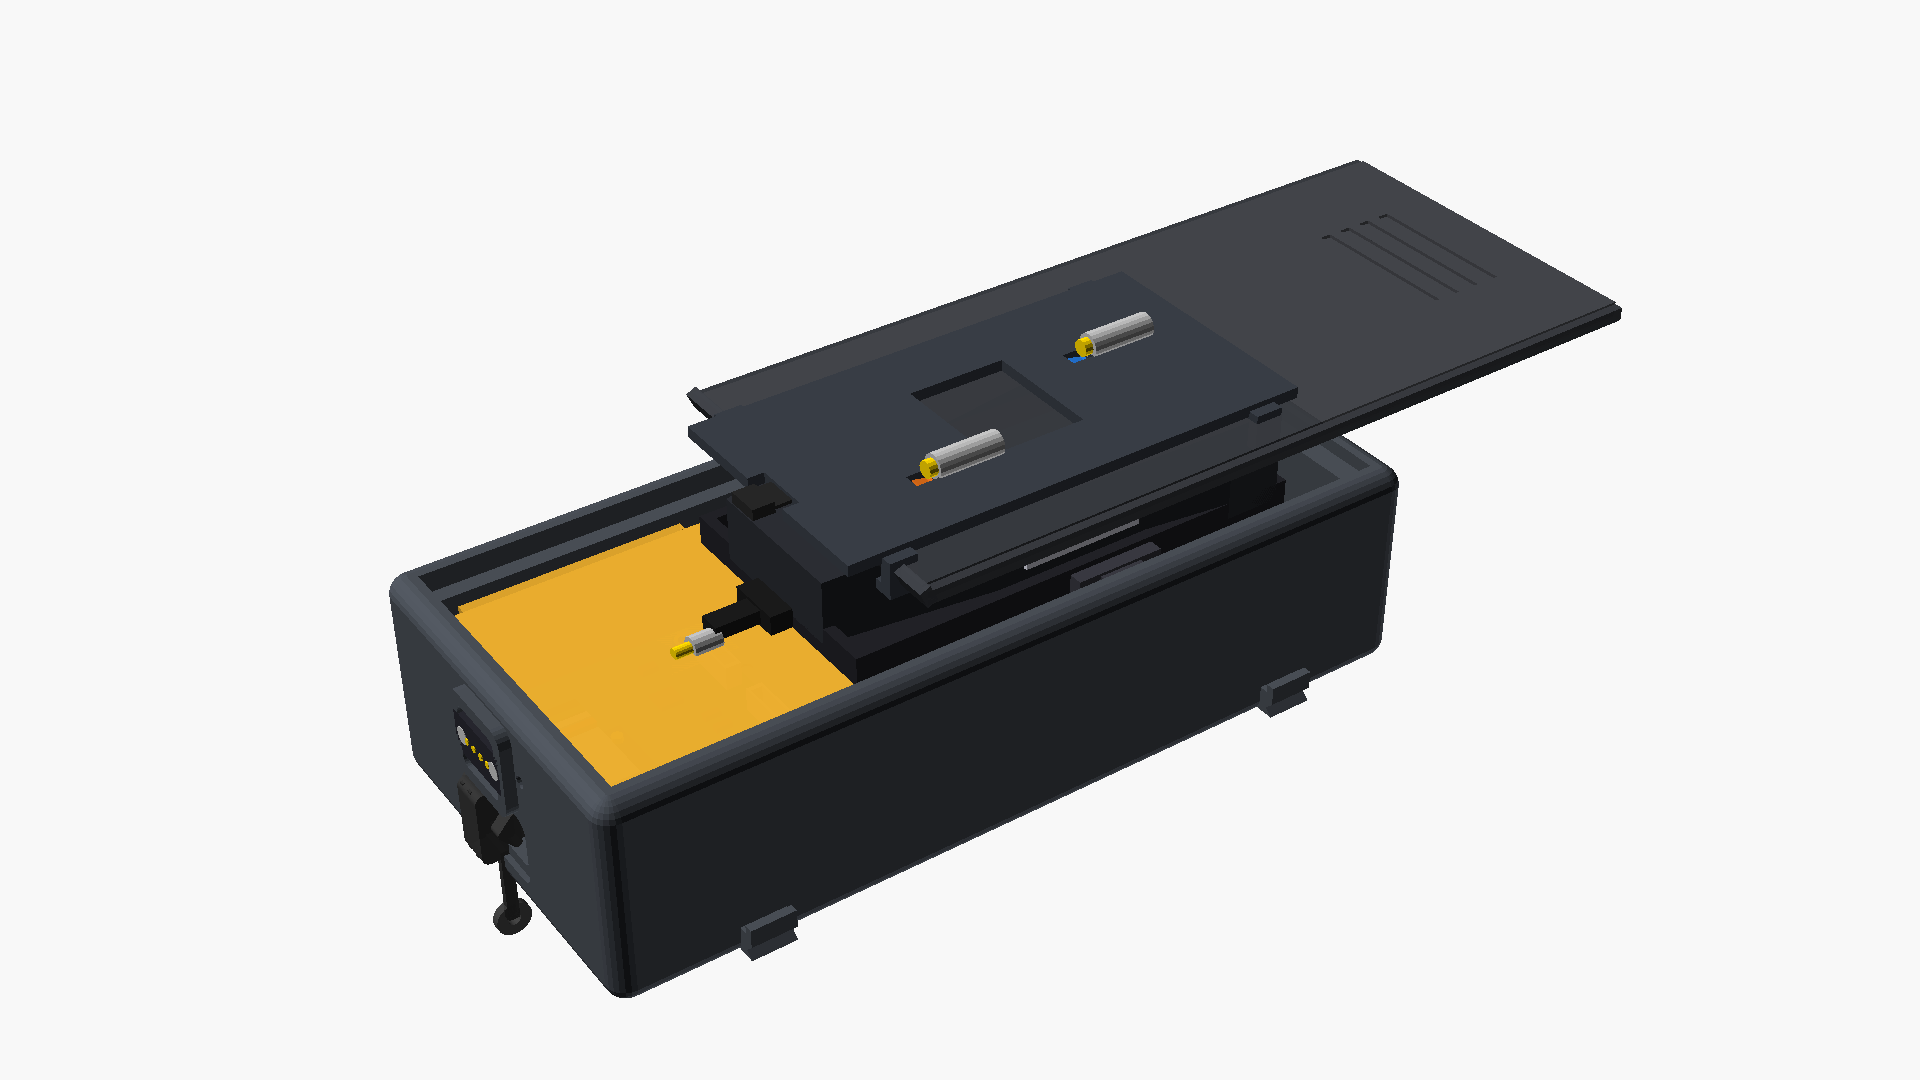
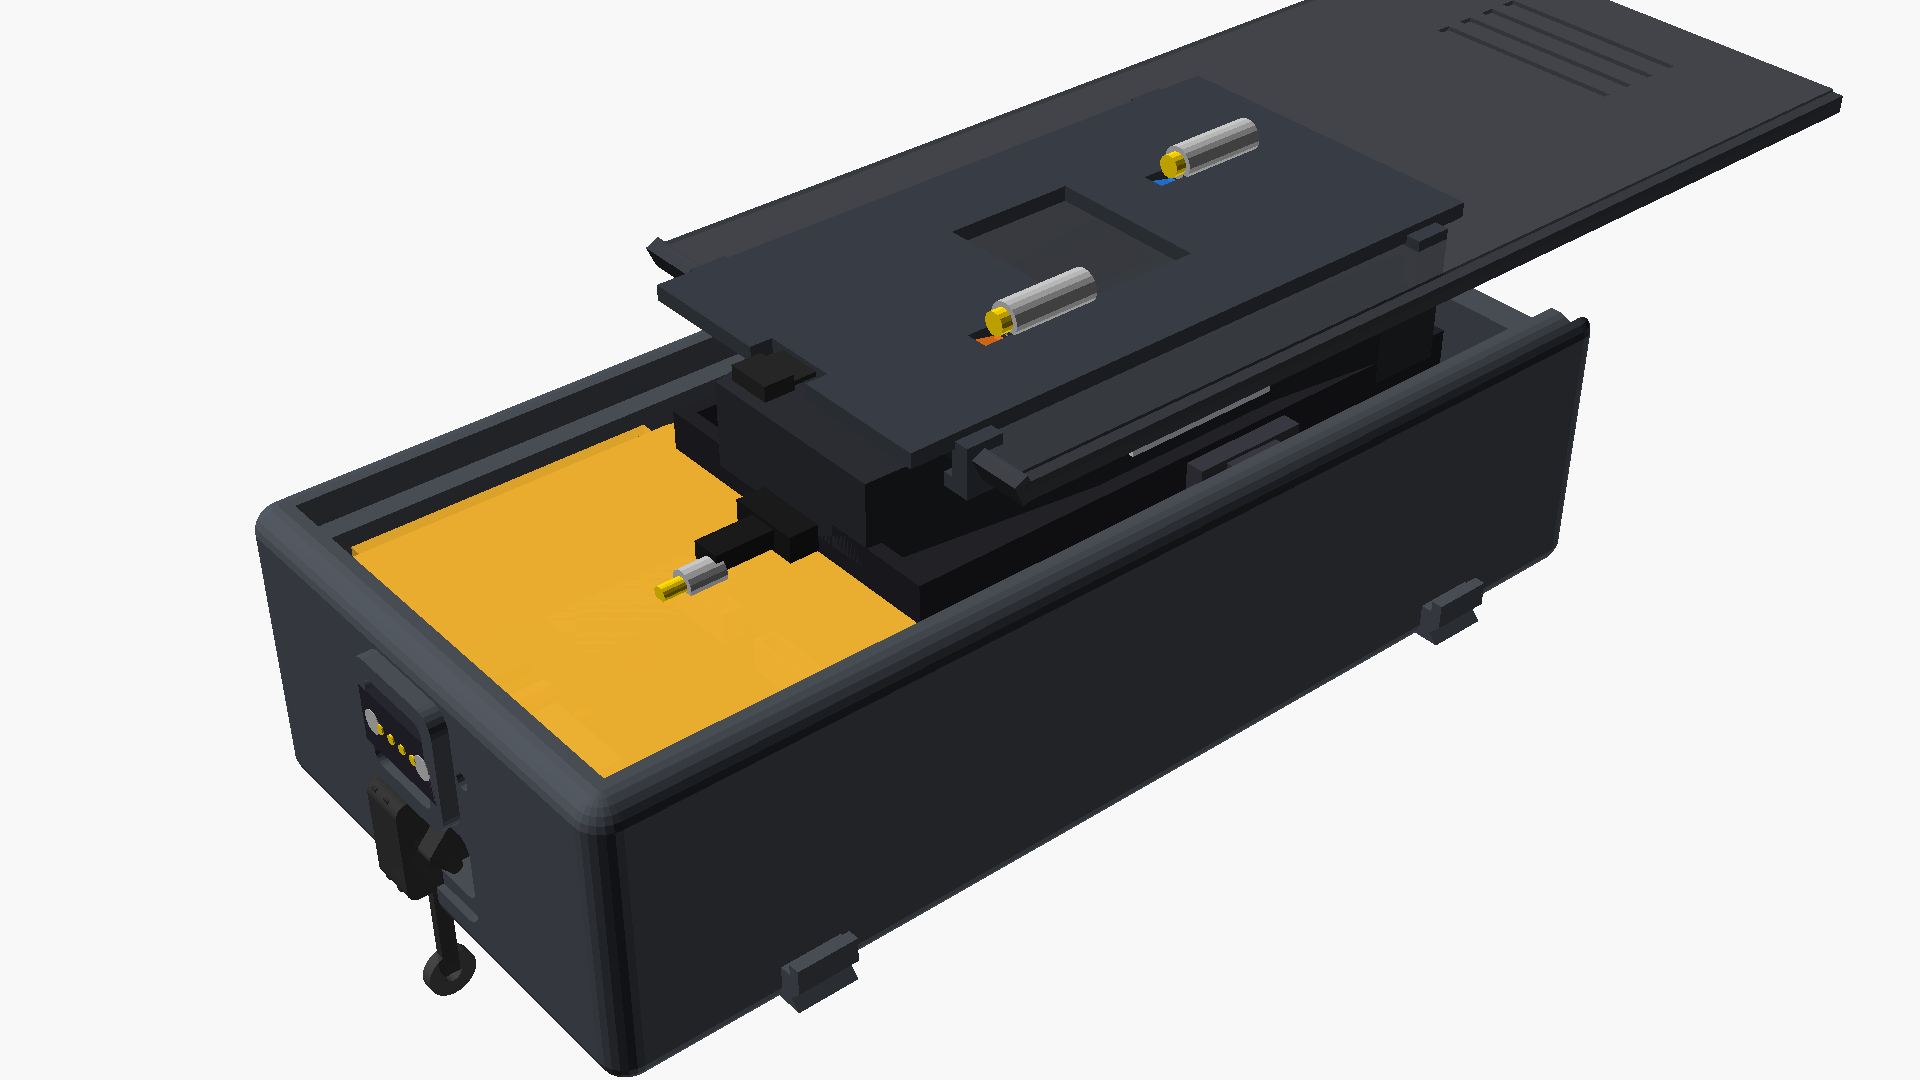
cad(pod): open right-hand rear bulkhead portal for horizontal slide-in lid and show retracted lid kinematics in Figure 8.9

Changed region(s): [[0.125, 0.0, 0.9688, 1.0], [0.625, 0.275, 0.6562, 0.3056]]

diff --git a/docs/de/08_enclosures_mechanics_cad.md b/docs/de/08_enclosures_mechanics_cad.md
@@ -270,7 +270,7 @@ Das Innere des Satelliten-Pods ist modular in zwei vertikal getrennte Ebenen geg
 
 ![OpenMotorBridge Satelliten-Pod Röntgen- & Innenansicht](../images/cad/pod_monocoque_xray_assembly_3d.png)
 
-*Abbildung 8.9: Transparente 3D-Röntgenansicht (X-Ray) des vollständig geschlossenen Monocoque-Satelliten-Pods. Erkennbar sind die tiefliegende 4-Lagen Trägerplatine PCBA 03 auf M2.5 Elastomer-Dämpfern, die stirnseitige Leitungsführung zur Port A Bus-Verschraubung und zur Port B USB-C Ladedose, die abdichtende EPDM-Dry-Flap sowie die im oberen Geräteraum integrierte Aktuatorschiene.*
+*Abbildung 8.9: Transparente 3D-Röntgen- und Kinematikansicht des Monocoque-Satelliten-Pods mit zur Demonstration nach rechts (hinten) ausgefahrenem Slide-In Deckel: Deutlich erkennbar ist die geöffnete rechte Einschuböffnung (Portal an der hinteren Stirnwand), durch welche der Deckel horizontal in die seitlichen C-Führungsrillen eingeschoben wird. Im freigelegten vorderen Bereich sichtbar: die tiefliegende 4-Lagen Trägerplatine PCBA 03 unter der EPDM-Dry-Flap, die stirnseitige Leitungsführung zu Port A (oben) und Port B (unten), sowie im oberen Geräteraum das Cardo Packtalk Edge mit aufgerasteter 2D-Kipphebelplatte.*
 
 ```
             POD-INNENAUFBAU: ZWEIZONEN-ARCHITEKTUR & DRY-FLAP

diff --git a/docs/en/08_enclosures_mechanics_cad.md b/docs/en/08_enclosures_mechanics_cad.md
@@ -251,7 +251,7 @@ The interior of the satellite pod is partitioned into two vertically isolated le
 
 ![OpenMotorBridge Satellite Pod X-Ray View CAD](../images/cad/pod_monocoque_xray_assembly_3d.png)
 
-*Figure 8.9: Transparent 3D X-Ray rendering of the fully closed monocoque satellite pod. Evident are the low-profile 4-layer PCBA 03 board mounted on M2.5 elastomer dampers, internal cable routes to the Port A Bus fitting and Port B USB-C socket, the sealing EPDM dry-flap, and the actuator slide bracket integrated in the upper equipment chamber.*
+*Figure 8.9: Transparent 3D X-Ray and kinematics view of the monocoque satellite pod with the slide-in lid partially retracted to the right (rearward) for demonstration: Clearly evident is the open right-hand insertion portal (bulkhead opening at the rear) through which the lid enters horizontally along the lateral C-groove guide rails. Revealed in the forward section: the low-profile 4-layer carrier board PCBA 03 beneath the EPDM dry-flap, internal cable routes to Port A (upper) and Port B (lower), and inside the upper equipment chamber the Cardo Packtalk Edge with snapped-on 2D rocker actuator plate.*
 
 ```
             POD INTERIOR: TWO-ZONE ARCHITECTURE & DRY-FLAP
